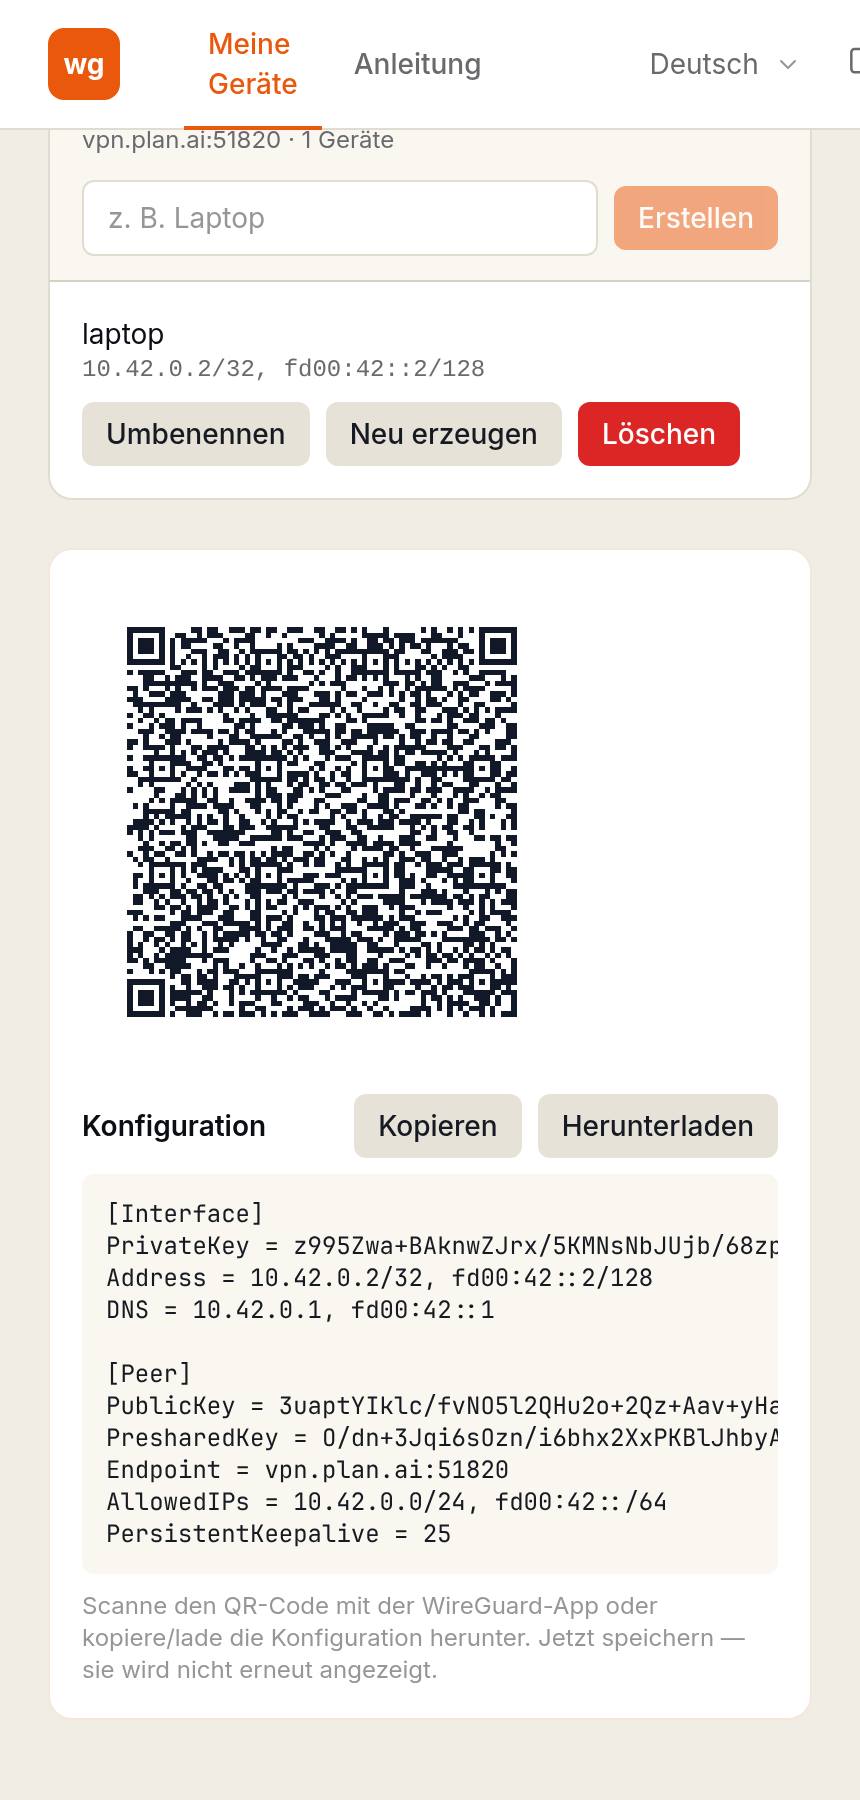
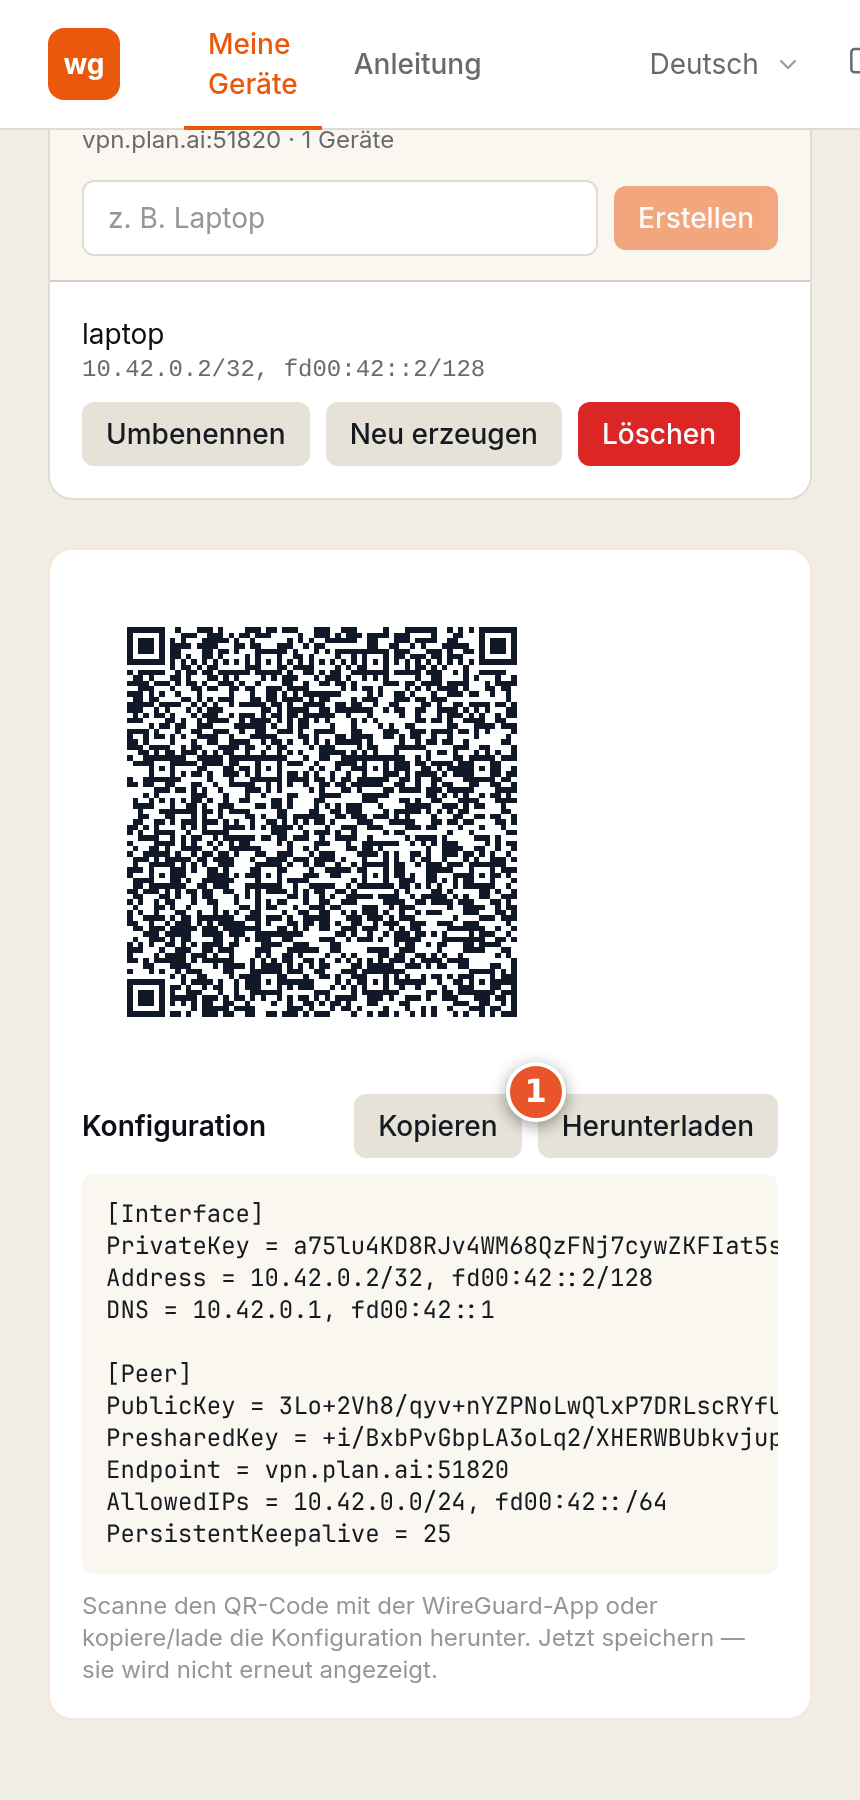
Setup guide: browser-locale switch, live wireguard.com capture, step markers
App: pick the initial language from navigator.language when no explicit choice
is saved in localStorage (localStorage still wins). Real users now get their
browser language; the regen drives it the same way.

Regen script:
- Force the locale by overriding navigator.language via an init script (runs
  before the app reads it) — no reload, deterministic regardless of host locale.
- Overlay numbered ①/② step markers on the actionable controls before capture
  (name field + Generate on the create page, Download on the config panel,
  Download Windows Installer on the wireguard.com page).
- Additionally capture the live wireguard.com/install page per language; the
  Windows tutorial step now uses that (replacing the old static screenshot).
- Debug build (release strips DEV_ONLY_NO_AUTH) in an isolated target dir, with
  the live overmind dev server paused during capture so its hot-reload client
  can't inject a "being rebuilt" overlay.

diff --git a/server/src/web/app.rs b/server/src/web/app.rs
@@ -43,13 +43,17 @@ pub fn App() -> Element {
     });
     let css_href = format!("/tailwind.css?v={}", env!("BUILD_TIMESTAMP"));
 
-    // Restore language preference from localStorage.
+    // Pick the initial language: an explicit choice in localStorage wins;
+    // otherwise fall back to the browser's locale (navigator.language). Any
+    // `de*` tag selects German; everything else keeps the en-US default.
     use_effect(move || {
         spawn(async move {
-            let result =
-                document::eval("try { return localStorage.getItem('lang') || ''; } catch(e) { return ''; }").await;
+            let result = document::eval(
+                "try { return localStorage.getItem('lang') || navigator.language || ''; } catch(e) { return ''; }",
+            )
+            .await;
             if let Ok(val) = result {
-                if val.as_str() == Some("de-DE") {
+                if val.as_str().is_some_and(|s| s.starts_with("de")) {
                     let _ = i18n.set_language(langid!("de-DE"));
                 }
             }

diff --git a/server/src/web/components/tutorial.rs b/server/src/web/components/tutorial.rs
@@ -156,7 +156,7 @@ fn windows() -> Vec<Block> {
         Block::AppImg("app-config-desktop"),
         Block::Text("tut-win-install"),
         Block::Link { key: "tut-win-download-link", href: "https://www.wireguard.com/install/" },
-        Block::Img("win-wireguard-com.png"),
+        Block::AppImg("wg-install-desktop"),
         Block::Text("tut-win-open-file"),
         Block::Img("win-wireguard-com-dl2.png"),
         Block::Img("win-wireguard-smartscreen.png"),
